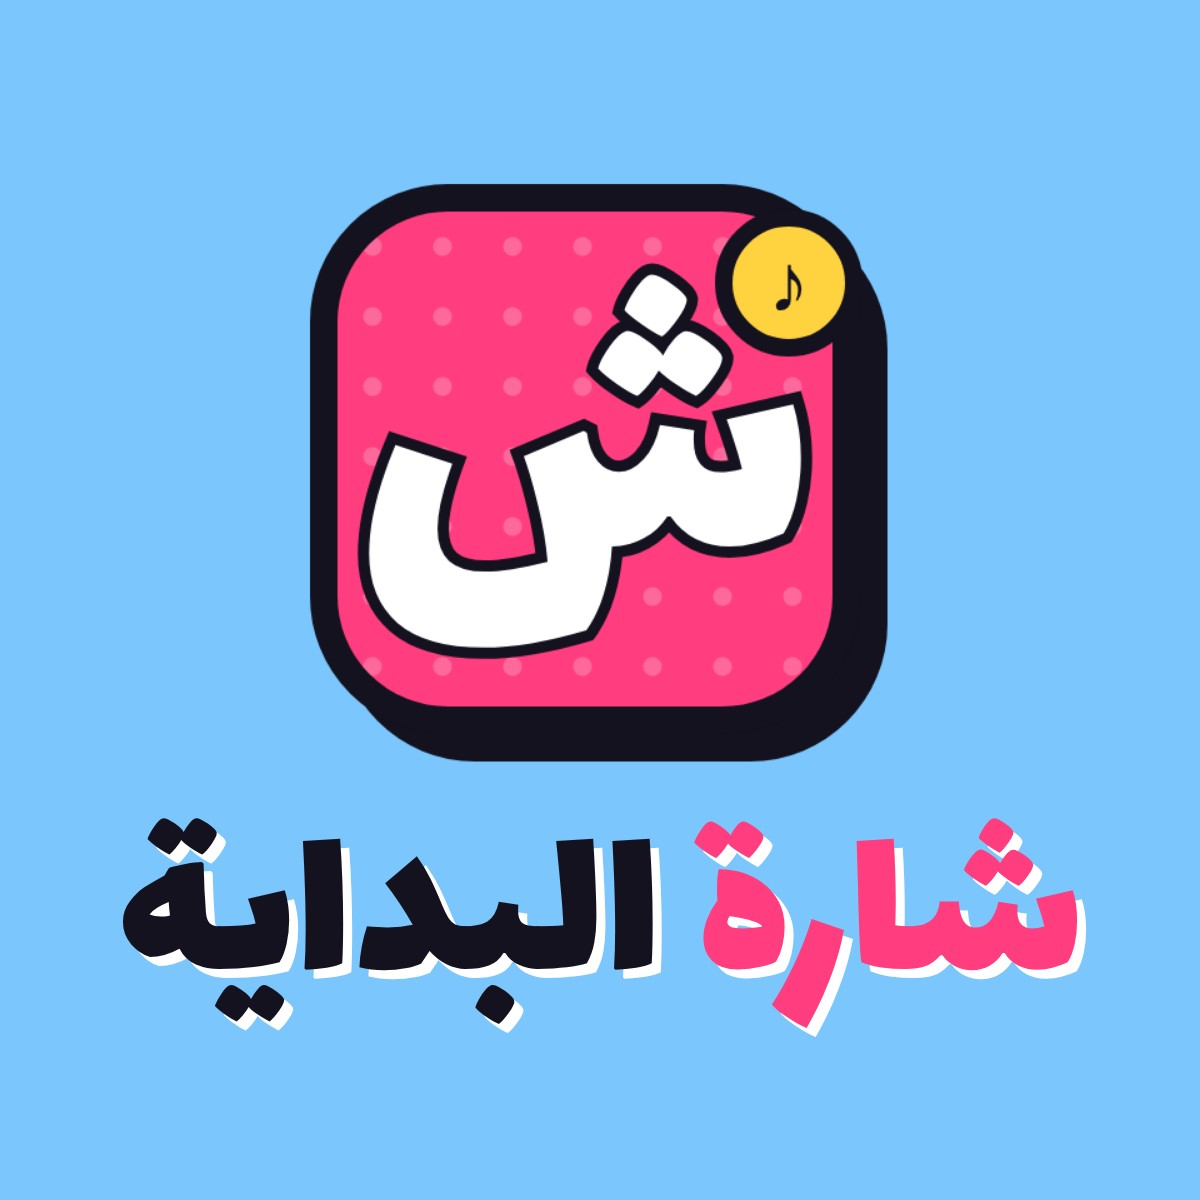
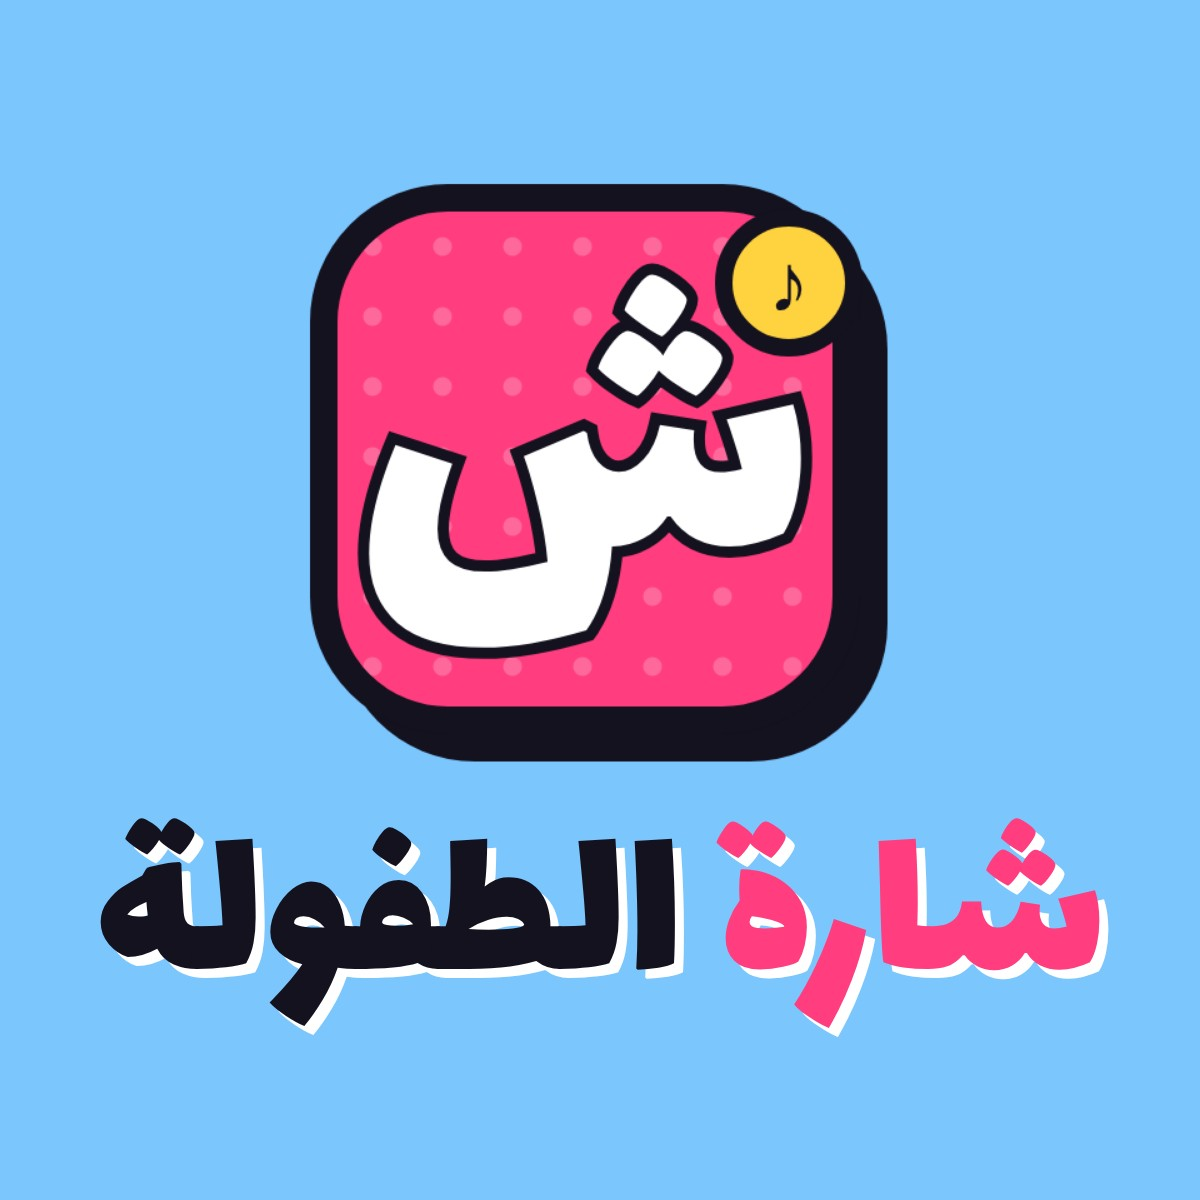
Add files via upload

Changed region(s): [[0.0617, 0.6783, 0.925, 0.8633]]

diff --git a/index.html b/index.html
@@ -3,7 +3,7 @@
 <head>
 <meta charset="utf-8">
 <meta name="viewport" content="width=device-width, initial-scale=1">
-<title>شارة البداية — خمّن الشارة من أول ثانية</title>
+<title>شارة الطفولة — خمّن الشارة من أول ثانية</title>
 <meta name="description" content="كم ثانية تحتاج لتعرف الشارة؟ لعبة يومية مجانية: اسمع أول ثانية من الشارة وخمّن المسلسل. شارة جديدة كل يوم.">
 <link rel="canonical" href="https://islam-salem.github.io/sharatalbidaya/">
 
@@ -13,23 +13,23 @@
 <link rel="apple-touch-icon" href="apple-touch-icon.png">
 <link rel="manifest" href="site.webmanifest">
 <meta name="theme-color" content="#7cc6fe">
-<meta name="apple-mobile-web-app-title" content="شارة البداية">
+<meta name="apple-mobile-web-app-title" content="شارة الطفولة">
 
 <!-- Link previews (WhatsApp, Facebook, X…). Image links must be full addresses — update when you move to your own domain -->
 <meta property="og:type" content="website">
-<meta property="og:site_name" content="شارة البداية">
+<meta property="og:site_name" content="شارة الطفولة">
 <meta property="og:locale" content="ar_AR">
-<meta property="og:title" content="شارة البداية — كم ثانية تحتاج لتعرف الشارة؟">
+<meta property="og:title" content="شارة الطفولة — كم ثانية تحتاج لتعرف الشارة؟">
 <meta property="og:description" content="اسمع أول ثانية من الشارة وخمّن المسلسل. شارة جديدة كل يوم.">
 <meta property="og:url" content="https://islam-salem.github.io/sharatalbidaya/">
-<meta property="og:image" content="https://islam-salem.github.io/sharatalbidaya/og-image.jpg?v=5">
+<meta property="og:image" content="https://islam-salem.github.io/sharatalbidaya/og-image.jpg?v=6">
 <meta property="og:image:type" content="image/jpeg">
 <meta property="og:image:width" content="1200">
 <meta property="og:image:height" content="1200">
 <meta name="twitter:card" content="summary">
-<meta name="twitter:title" content="شارة البداية — كم ثانية تحتاج لتعرف الشارة؟">
+<meta name="twitter:title" content="شارة الطفولة — كم ثانية تحتاج لتعرف الشارة؟">
 <meta name="twitter:description" content="اسمع أول ثانية من الشارة وخمّن المسلسل. شارة جديدة كل يوم.">
-<meta name="twitter:image" content="https://islam-salem.github.io/sharatalbidaya/og-image.jpg?v=5">
+<meta name="twitter:image" content="https://islam-salem.github.io/sharatalbidaya/og-image.jpg?v=6">
 
 <link rel="preconnect" href="https://fonts.googleapis.com">
 <link href="https://fonts.googleapis.com/css2?family=Lalezar&family=Tajawal:wght@500;700;800&display=swap" rel="stylesheet">
@@ -191,7 +191,7 @@
   <header>
     <button class="iconbtn press" id="helpBtn" aria-label="طريقة اللعب">؟</button>
     <div class="brand">
-      <h1><span>شارة</span> البداية</h1>
+      <h1><span>شارة</span> الطفولة</h1>
       <div class="tag" id="dayLbl"></div>
     </div>
     <button class="iconbtn press" id="statsBtn" aria-label="الإحصائيات">
@@ -251,7 +251,7 @@
   <!-- Install as app (shown only on phones that can install) -->
   <div class="install" id="installBox">
     <img src="icon-192.png" alt="">
-    <div class="t">ثبّت «شارة البداية» على موبايلك<small>تفتحها كتطبيق بضغطة واحدة كل يوم</small></div>
+    <div class="t">ثبّت «شارة الطفولة» على موبايلك<small>تفتحها كتطبيق بضغطة واحدة كل يوم</small></div>
     <button class="go press" id="installBtn">تثبيت</button>
     <button class="x" id="installX" aria-label="إغلاق">×</button>
   </div>
@@ -295,7 +295,7 @@ const START_DATE = "2026-10-10";               // day #1 (Cairo date)
 const CLIPS = [1, 2, 4, 6, 8];                 // seconds unlocked per attempt
 const FULL_LEN = 20;                           // seconds played after the game ends (audio-file songs)
 const SHUFFLE_SEED = 7;                        // change once to re-shuffle (before launch only)
-const GAME_NAME = "شارة البداية";
+const GAME_NAME = "شارة الطفولة";
 const SITE_URL = location.origin + location.pathname;
 const MAX = CLIPS.length;
 
@@ -593,7 +593,7 @@ function updateNext(){
   $("nextLbl").textContent = `الشارة الجاية بعد ${h} ساعة و ${m} دقيقة`;
 }
 function render(){
-  $("dayLbl").textContent = TEST_MODE ? `🔧 تجربة · شارة ${TEST} · تبدأ من ${START} ث` : `شارة اليوم #${DAY}`;
+  $("dayLbl").textContent = TEST_MODE ? `🔧 تجربة · شارة ${TEST} · تبدأ من ${START} ث` : `الحلقة #${DAY}`;
   renderRows(); renderBar(); renderStatus();
   if(state.done) renderResult();
 }

diff --git a/about.html b/about.html
@@ -3,8 +3,8 @@
 <head>
 <meta charset="utf-8">
 <meta name="viewport" content="width=device-width, initial-scale=1">
-<title>عن اللعبة — شارة البداية</title>
-<meta name="description" content="شارة البداية لعبة يومية مجانية: اسمع أول ثانية من الشارة وخمّن اسم المسلسل.">
+<title>عن اللعبة — شارة الطفولة</title>
+<meta name="description" content="شارة الطفولة لعبة يومية مجانية: اسمع أول ثانية من الشارة وخمّن اسم المسلسل.">
 <link rel="icon" href="favicon.ico" sizes="any">
 <link rel="icon" type="image/png" sizes="32x32" href="favicon-32.png">
 <link rel="apple-touch-icon" href="apple-touch-icon.png">
@@ -16,13 +16,13 @@
 <body>
 <div class="wrap">
   <div class="top">
-    <a class="logo" href="./"><img src="icon-192.png" alt=""><b><span>شارة</span> البداية</b></a>
+    <a class="logo" href="./"><img src="icon-192.png" alt=""><b><span>شارة</span> الطفولة</b></a>
     <a class="play" href="./">العب الآن ▶</a>
   </div>
 
   <div class="card">
     <h1>عن اللعبة</h1>
-    <p><b>شارة البداية</b> لعبة يومية مجانية لكل من يحب شارات المسلسلات. كل يوم نختار شارة، وعليك أن تعرفها من أقل جزء ممكن.</p>
+    <p><b>شارة الطفولة</b> لعبة يومية مجانية لكل من يحب شارات المسلسلات. كل يوم نختار شارة، وعليك أن تعرفها من أقل جزء ممكن.</p>
 
     <h2>طريقة اللعب</h2>
     <ol>
@@ -35,7 +35,7 @@
     <p>تتغيّر الشارة كل يوم عند منتصف الليل بتوقيت القاهرة، وهي نفس الشارة لكل اللاعبين.</p>
 
     <h2>حقوق الملكية</h2>
-    <p class="note">«شارة البداية» مشروع شخصي من أحد المعجبين، وهو <b>غير تابع</b> لأي قناة تلفزيونية ولا لأي جهة مالكة للمسلسلات أو الأغاني.
+    <p class="note">«شارة الطفولة» مشروع شخصي من أحد المعجبين، وهو <b>غير تابع</b> لأي قناة تلفزيونية ولا لأي جهة مالكة للمسلسلات أو الأغاني.
     جميع الشارات والأسماء والعلامات ملك لأصحابها. يستخدم الموقع مقاطع صوتية قصيرة جدًا (ثوانٍ معدودة) لأغراض اللعبة فقط، أما الشارة كاملة فتُعرض من خلال مشغّل يوتيوب من القنوات التي رفعتها.</p>
     <p>إذا كنت صاحب حق في أي محتوى وتريد إزالته، راسلنا وسنزيله فورًا.</p>
 

diff --git a/privacy.html b/privacy.html
@@ -3,8 +3,8 @@
 <head>
 <meta charset="utf-8">
 <meta name="viewport" content="width=device-width, initial-scale=1">
-<title>سياسة الخصوصية — شارة البداية</title>
-<meta name="description" content="سياسة الخصوصية للعبة شارة البداية.">
+<title>سياسة الخصوصية — شارة الطفولة</title>
+<meta name="description" content="سياسة الخصوصية للعبة شارة الطفولة.">
 <link rel="icon" href="favicon.ico" sizes="any">
 <link rel="icon" type="image/png" sizes="32x32" href="favicon-32.png">
 <link rel="apple-touch-icon" href="apple-touch-icon.png">
@@ -16,7 +16,7 @@
 <body>
 <div class="wrap">
   <div class="top">
-    <a class="logo" href="./"><img src="icon-192.png" alt=""><b><span>شارة</span> البداية</b></a>
+    <a class="logo" href="./"><img src="icon-192.png" alt=""><b><span>شارة</span> الطفولة</b></a>
     <a class="play" href="./">العب الآن ▶</a>
   </div>
 

diff --git a/404.html b/404.html
@@ -3,7 +3,7 @@
 <head>
 <meta charset="utf-8">
 <meta name="viewport" content="width=device-width, initial-scale=1">
-<title>الصفحة غير موجودة — شارة البداية</title>
+<title>الصفحة غير موجودة — شارة الطفولة</title>
 <meta name="robots" content="noindex">
 <link href="https://fonts.googleapis.com/css2?family=Lalezar&family=Tajawal:wght@700;800&display=swap" rel="stylesheet">
 <style>

diff --git a/sw.js b/sw.js
@@ -1,7 +1,7 @@
 // Service worker — makes the site installable as an app on phones.
 // Strategy: always try the network first (so your updates show up immediately),
 // fall back to the saved copy only when offline.
-const CACHE = "sharah-v5";
+const CACHE = "sharah-v6";
 const SHELL = ["./", "index.html", "songs.js", "about.html", "privacy.html", "page.css",
                "icon-192.png", "icon-512.png", "favicon.ico"];
 

diff --git a/README.md b/README.md
@@ -1,4 +1,4 @@
-# شارة البداية
+# شارة الطفولة
 
 Daily "name the intro from the first second" game for TV-show intro songs.
 Clips unlock at 1 → 2 → 4 → 6 → 8 seconds (5 tries). Wrong guess or skip = longer clip.
